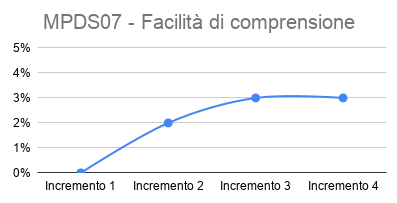
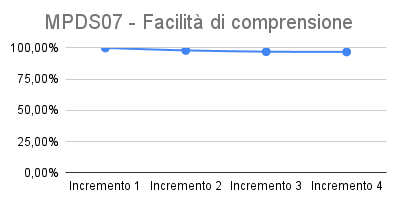
Corretti alcuni paragrafi e grafici

diff --git a/DocumentiPubblici/PianoDiQualifica/Sezioni/Miglioramento.tex b/DocumentiPubblici/PianoDiQualifica/Sezioni/Miglioramento.tex
@@ -77,8 +77,8 @@ Per trattare ogni punto sopra descritto, è fondamentale l'autovalutazione di ci
 \subsubsection{Valutazioni sui ruoli}
 \myparagraph{Progettista}
 \begin{itemize}
-	\item \textbf{Problema:} i membri del team incaricati hanno avuto delle difficoltà ad individuare il \glo{design pattern} architetturale più adatto per lo sviluppo del progetto.\\
-	\textbf{Soluzione proposta:} i membri del gruppo si sono confrontati più volte tra loro, ha chiesto consiglio e chiarito dei dubbi con il proponente \Proponente\ e ha discusso sulla soluzione individuata con il \CR{}.
+	\item \textbf{Problema:} i membri del team incaricati all'individuazione del \glo{design pattern} architetturale hanno riscontrato diverse difficoltà e dubbi nel trovare quello più adatto per lo sviluppo del progetto.\\
+	\textbf{Soluzione proposta:} i membri del gruppo si sono confrontati più volte tra loro chiedendo consiglio per chiarire dei dubbi al proponente \Proponente\ e discutendo, in conclusione, sulla soluzione individuata con il \CR{}.
 \end{itemize}
 \myparagraph{Programmatore}
 \begin{itemize}
@@ -89,8 +89,8 @@ Per trattare ogni punto sopra descritto, è fondamentale l'autovalutazione di ci
 \subsubsection{Valutazioni sull'organizzazione}
 \begin{itemize}
 	\item \textbf{Problema:} le attività relative al progetto si sono sovrapposte con l'inizio dell'attività di stage per alcuni membri del team.\\
-	\textbf{Soluzione proposta:} l'andamento del lavoro è stato monitorato con più frequenza per evitare di accumulare ritardi e in modo da controllare che tutti i componenti svolgessero i propri compiti, in particolare tutti i giorni i membri aggiornavano gli altri sul lavoro svolto.
+	\textbf{Soluzione proposta:} l'andamento del lavoro è stato monitorato con più frequenza per evitare di accumulare ritardi e in modo da controllare che tutti i componenti svolgessero i propri compiti. In particolare, ciascun componente del gruppo era tenuto ad aggiornare gli altri sul lavoro svolto ogni giorno.
 \end{itemize}
 
 \subsection{Valutazioni finali generali} \label{MiglioramentoFinale}
-Per quanto il gruppo abbia provato a individuare, analizzare e pianificare le azioni da svolgere per la gestione dei rischi, l'approccio effettivamente seguito è stato principalmente di tipo reattivo, con l'introduzione di azioni migliorative e/o correttive solo in seguito al verificarsi di un problema. Nonostante questo il gruppo si ritiene soddisfatto del lavoro svolto in quanto con lo svolgimento del progetto sono comunque stati introdotti una serie di miglioramenti che hanno permesso al gruppo di correggere il proprio way of working. Con l'avanzamento dei vari periodi il gruppo ha preso consapevolezza sui compiti da svolgere per ogni ruolo, ha migliorato il metodo di lavoro per svolgere determinate attività come ad esempio l'attività di verifica, potendo così recuperare ore di lavoro, ma soprattutto negli ultimi periodi ha pianificato le attività in modo più ragionevole evitando così di imporsi scadenze irraggiungibili e di rincorrerle per evitare ritardi. 
+Per quanto il gruppo abbia provato a individuare, analizzare e pianificare le azioni da svolgere per la gestione dei rischi, l'approccio effettivamente seguito è stato principalmente di tipo reattivo, con l'introduzione di azioni migliorative e/o correttive solo in seguito al verificarsi di un problema. Nonostante questo il gruppo si ritiene soddisfatto del lavoro svolto in quanto con lo svolgimento del progetto sono comunque stati introdotti una serie di miglioramenti che hanno permesso al gruppo di correggere il proprio way of working. Con l'avanzamento dei vari periodi il gruppo ha preso consapevolezza sui compiti da svolgere per ogni ruolo, ha migliorato il metodo di lavoro per svolgere determinate attività come ad esempio l'attività di verifica, potendo così recuperare ore di lavoro, ma soprattutto negli ultimi periodi ha pianificato le attività in modo più ragionevole evitando così di imporsi scadenze irraggiungibili e di rincorrerle per evitare ritardi.

diff --git a/DocumentiPubblici/PianoDiQualifica/Sezioni/SpecificaTest.tex b/DocumentiPubblici/PianoDiQualifica/Sezioni/SpecificaTest.tex
@@ -73,7 +73,7 @@ Lo scopo dei test di sistema è quello di verificare che i requisiti espressi ne
     	TRFO63 & Viene verificato che il venditore possa modificare lo stato di un determinato ordine & Non ancora in sviluppo\\ \hline
 	TRFO64 & Viene verificato che il venditore possa visualizzare gli ordini ricevuti per ordine cronologico decrescente come ordinamento predefinito & Non ancora in sviluppo\\ \hline
 	TRFO65 & Viene verificato che il venditore possa cercare un ordine dalla propria schermata di riepilogo ordini per codice e cliente & Non ancora in sviluppo\\ \hline
-    	TRFO66 & Viene verificato che il venditore possa filtrare gli ordini per lo stato dell'ordine secondo un intervallo temporale ordinandoli in base alla data di accettazione & Non ancora in sviluppo\\ 
+    	TRFO66 & Viene verificato che il venditore possa filtrare gli ordini per lo stato dell'ordine secondo un intervallo temporale ordinandoli in base alla data di accettazione & Non ancora in sviluppo\\ \hline
 	\rowcolor{white}
     	\caption{Descrizione dei test di sistema.}
 \end{longtable}
@@ -147,7 +147,7 @@ Lo scopo dei test di sistema è quello di verificare che i requisiti espressi ne
 	TRFO63 & RFO118\_40\\ \hline
 	TRFO64 & RFO119\\ \hline
 	TRFO65 & RFO120\_41, RFO121\_42\\ \hline
-	TRFO66 & RFO122\_43, RFO123\_43.1, RFO124\_43.2, RFO125\_43.2.1, RFO126\_43.2.2\\ 
+	TRFO66 & RFO122\_43, RFO123\_43.1, RFO124\_43.2, RFO125\_43.2.1, RFO126\_43.2.2\\ \hline
 	\rowcolor{white}
 	\caption{Relazione tra test di sistema e requisiti.}\\
 \end{longtable}
@@ -246,7 +246,7 @@ Servono a controllare che il software creato soddisfi i requisiti concordati e l
 	TRFO63 & Viene verificato che il venditore possa modificare lo stato di un determinato ordine & Non ancora in sviluppo\\ \hline
 	TRFO64 & Viene verificato che il venditore possa visualizzare gli ordini ricevuti per ordine cronologico decrescente come ordinamento predefinito & Non ancora in sviluppo\\ \hline
 	TRFO65 & Viene verificato che il venditore possa cercare un ordine dalla propria schermata di riepilogo ordini per codice e cliente & Non ancora in sviluppo\\ \hline
-	TRFO66 & Viene verificato che il venditore possa filtrare gli ordini per lo stato dell'ordine secondo un intervallo temporale ordinandoli in base alla data di accettazione & Non ancora in sviluppo\\ 
+	TRFO66 & Viene verificato che il venditore possa filtrare gli ordini per lo stato dell'ordine secondo un intervallo temporale ordinandoli in base alla data di accettazione & Non ancora in sviluppo\\ \hline
 	\rowcolor{white}
 	\caption{Descrizione dei test di accettazione.}
 \end{longtable}

diff --git a/DocumentiPubblici/PianoDiQualifica/Sezioni/QualitaProdotto.tex b/DocumentiPubblici/PianoDiQualifica/Sezioni/QualitaProdotto.tex
@@ -51,8 +51,8 @@ Il modello di qualità stabilito nello standard, ISO/IEC 9126, è definito da se
 			\multicolumn{2}{|c|}{\textcolor{white}{\textbf{MPDS02: Densità errori}}}\\ \hline
 			Descrizione & Consiste nella capacità di un prodotto software di resistere ai malfunzionamenti ed è riportato nelle \NdPv{4.0} in \S{2.3.6.6}.\\ \hline
 			Risultato & Indice compreso tra 0 e 100.\\ \hline
-			Valore ottimale & Scelto in seguito.\\ \hline
-			Valore minimale & Scelto in seguito.\\ \hline
+			Valore ottimale & 85\%.\\ \hline
+			Valore minimale & 50\%.\\ \hline
 		\end{tabular}
 	\end{center}
 	\caption{\label{tab:MPDS02}Metrica relativa alla densità degli errori.}
@@ -161,8 +161,8 @@ Capacità di fornire determinate prestazioni relative alla quantità di risorse 
 			\multicolumn{2}{|c|}{\textcolor{white}{\textbf{MPDS07: Facilità di comprensione}}} \\ \hline
 			Descrizione & Indica la facilità con cui è possibile comprendere cosa fa il codice ed è rappresentata dal numero di linee di commento nel codice. È riportato nelle \NdPv{4.0} in \S{2.3.6.6}.\\ \hline
 			Risultato & Indice compreso tra 0 e 100 che stabilisce la facilità di comprensione del codice.\\ \hline
-			Valore ottimale & Scelto in seguito.\\ \hline
-			Valore minimale & Scelto in seguito.\\ \hline
+			Valore ottimale & 95\%.\\ \hline
+			Valore minimale & 80\%.\\ \hline
 		\end{tabular}
 	\end{center}
 	\caption{\label{tab:MPDS07}Metrica relativa alla facilità di comprensione.}

diff --git a/DocumentiPubblici/PianoDiQualifica/Sezioni/EsitiRevisioni.tex b/DocumentiPubblici/PianoDiQualifica/Sezioni/EsitiRevisioni.tex
@@ -62,6 +62,7 @@ Il gruppo \Gruppo\ ha deciso di dedicare alcuni incontri per discutere sulla val
 	\rowcolor{darkblue}
 	\multicolumn{3}{|c|}{\textcolor{white}{\textbf{Criticità generali}}}\\ \hline
 	Simbolo \S\ sostituisce la parola "sezione". & Si corregge all'interno dei documenti la ripetizione. & CPD13 \\ \hline
+	\rowcolor{darkblue}
 	\multicolumn{3}{|c|}{\textcolor{white}{\textbf{Piano di progetto}}}\\ \hline
 	Non ancora sanato eccesso del preventivo. & Si è descritto meglio quali spese sono state ridotte e il motivo. & CPD14 \\ \hline
 	\rowcolor{darkblue}
@@ -75,6 +76,7 @@ Il gruppo \Gruppo\ ha deciso di dedicare alcuni incontri per discutere sulla val
 	Opportuno inserire come segnalare malfunzionamenti. & Viene inserita all'interno del manuale una sezione con le indicazioni per segnalare al gruppo i malfunzionamenti. & CPD19 \\ \hline
 	\rowcolor{darkblue}
 	\multicolumn{3}{|c|}{\textcolor{white}{\textbf{Verbali}}}\\ \hline
-	Le decisioni prese non sono precise. & Quanto stabilito nelle nuove riunioni vengono descritte in modo più specifico. &  CPD20 \\ \hline
+	Le decisioni prese non sono precise. & Quanto stabilito nelle nuove riunioni vengono descritte in modo più specifico. & CPD20 \\ \hline
+	\rowcolor{white}
 	\caption{Miglioramenti apportati in seguito alla RQ.}\\
 \end{longtable}

diff --git a/DocumentiPubblici/PianoDiQualifica/Sezioni/Introduzione.tex b/DocumentiPubblici/PianoDiQualifica/Sezioni/Introduzione.tex
@@ -1,7 +1,7 @@
 \section{Introduzione}
 \label{introduzione}
 \subsection{Scopo del documento}
-Questo documento ha lo scopo di mostrare le strategie che il gruppo {\Gruppo} adotta per garantire la \glo{qualità} di prodotto e di processo. Per raggiungere questo obiettivo viene applicato un sistema di verifica continua che permette l'individuazione di eventuali errori così da poterli risolvere limitando gli sprechi di tempo.\\Il documento è da considerarsi incompleto in quanto i contenuti verranno aggiornati e modificati avanzando con lo sviluppo del prodotto.
+Questo documento ha lo scopo di mostrare le strategie che il gruppo {\Gruppo} adotta per garantire la \glo{qualità} di prodotto e di processo. Per raggiungere questo obiettivo viene applicato un sistema di verifica continua che permette l'individuazione di eventuali errori così da poterli risolvere limitando gli sprechi di tempo.
 \subsection{Scopo del prodotto} 
 Il progetto {\NomeProgetto} ha come scopo quello di rendere disponibile un servizio \glo{e-commerce} sfruttando tutti i vantaggi di un'architettura \glo{Serverless}:
 \begin{itemize}

diff --git a/DocumentiPubblici/PianoDiQualifica/Sezioni/QualitaProcesso.tex b/DocumentiPubblici/PianoDiQualifica/Sezioni/QualitaProcesso.tex
@@ -173,7 +173,7 @@ Risulta indispensabile definire delle \glo{metriche} in modo che la qualità dei
 \myparagraph{Obiettivi}
 \begin{itemize}
 	\item \textbf{OPR04: Risoluzione dei problemi}\\
-	Lo scopo del processo di risoluzione dei problemi è di tracciare delle problematiche riscontrate durante lo svolgimento del progetto e di offrire soluzioni.
+	Lo scopo del processo di risoluzione dei problemi è di tracciare delle criticità riscontrate durante lo svolgimento del progetto e di offrire soluzioni.
 	\item \textbf{Esiti del processo}\\
 	I risultati di un processo di risoluzione dei problemi di qualità sono:
 	\begin{itemize}
